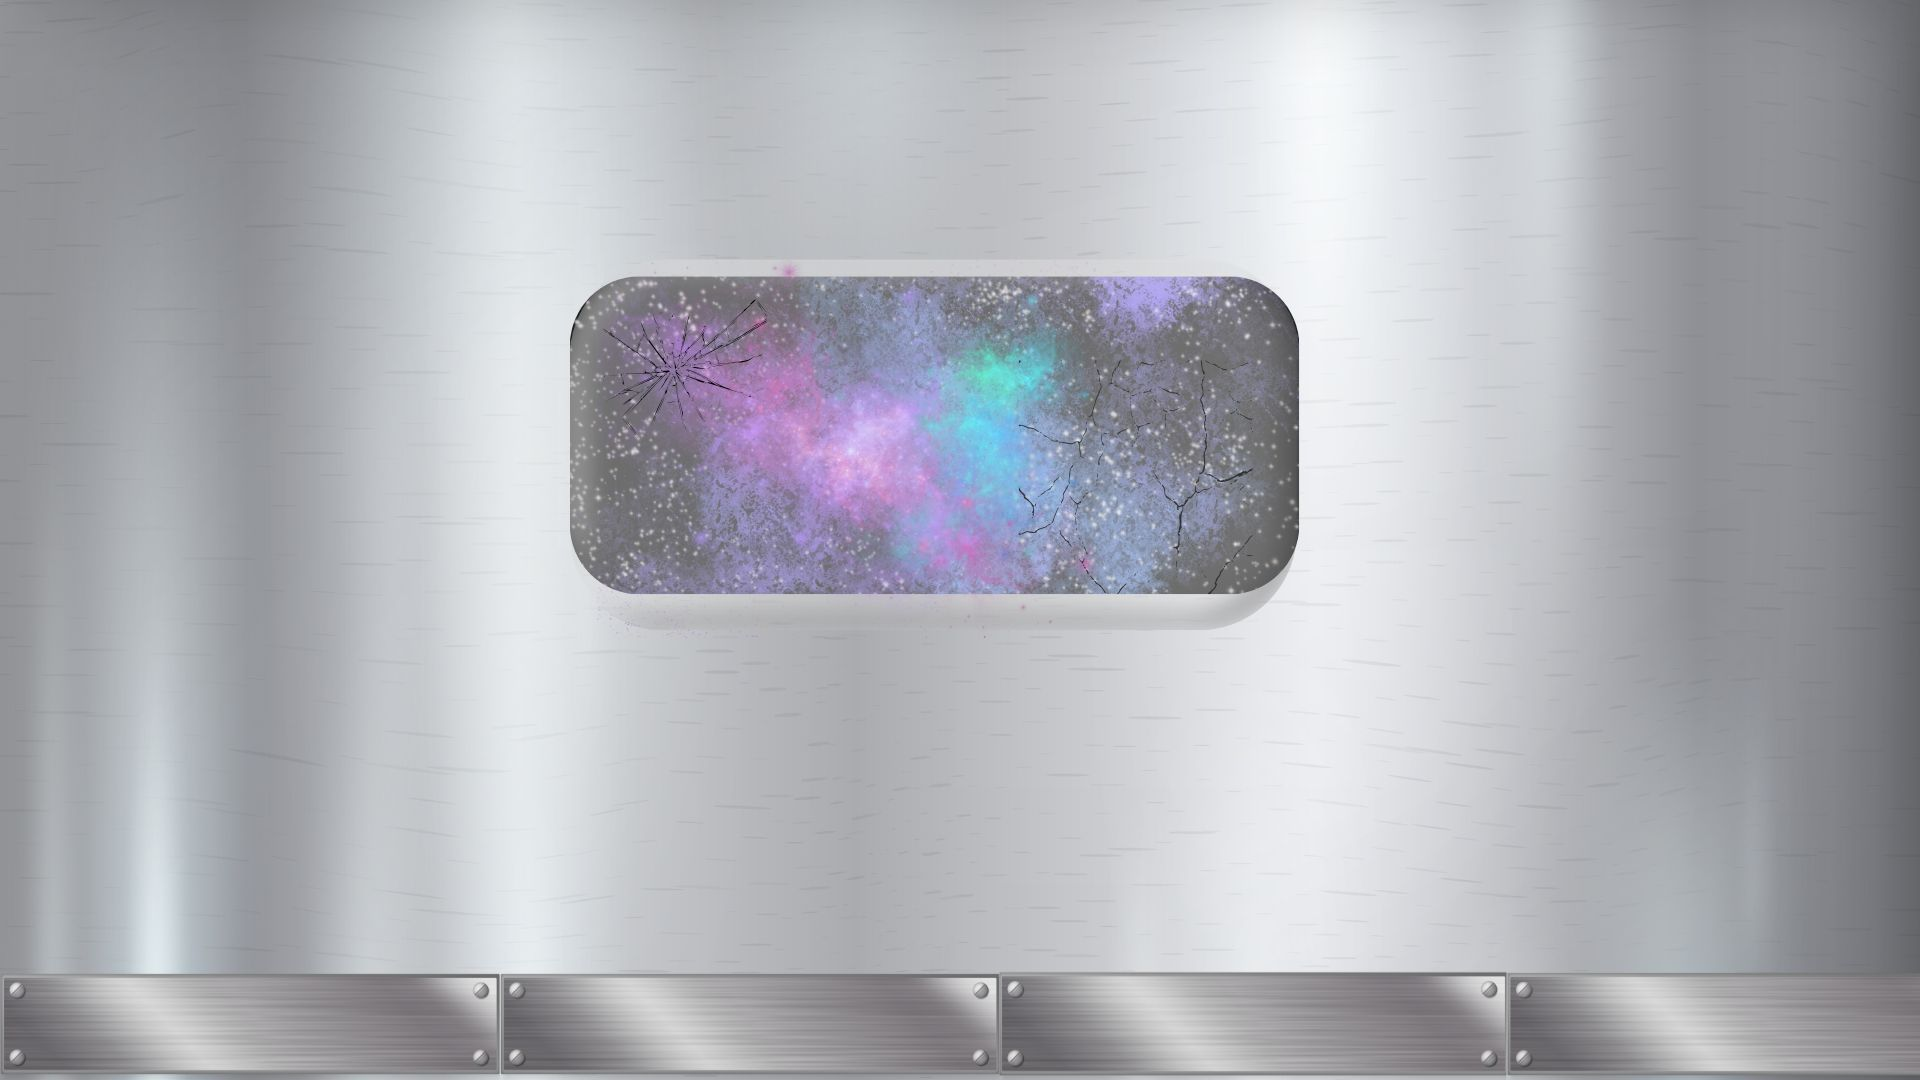
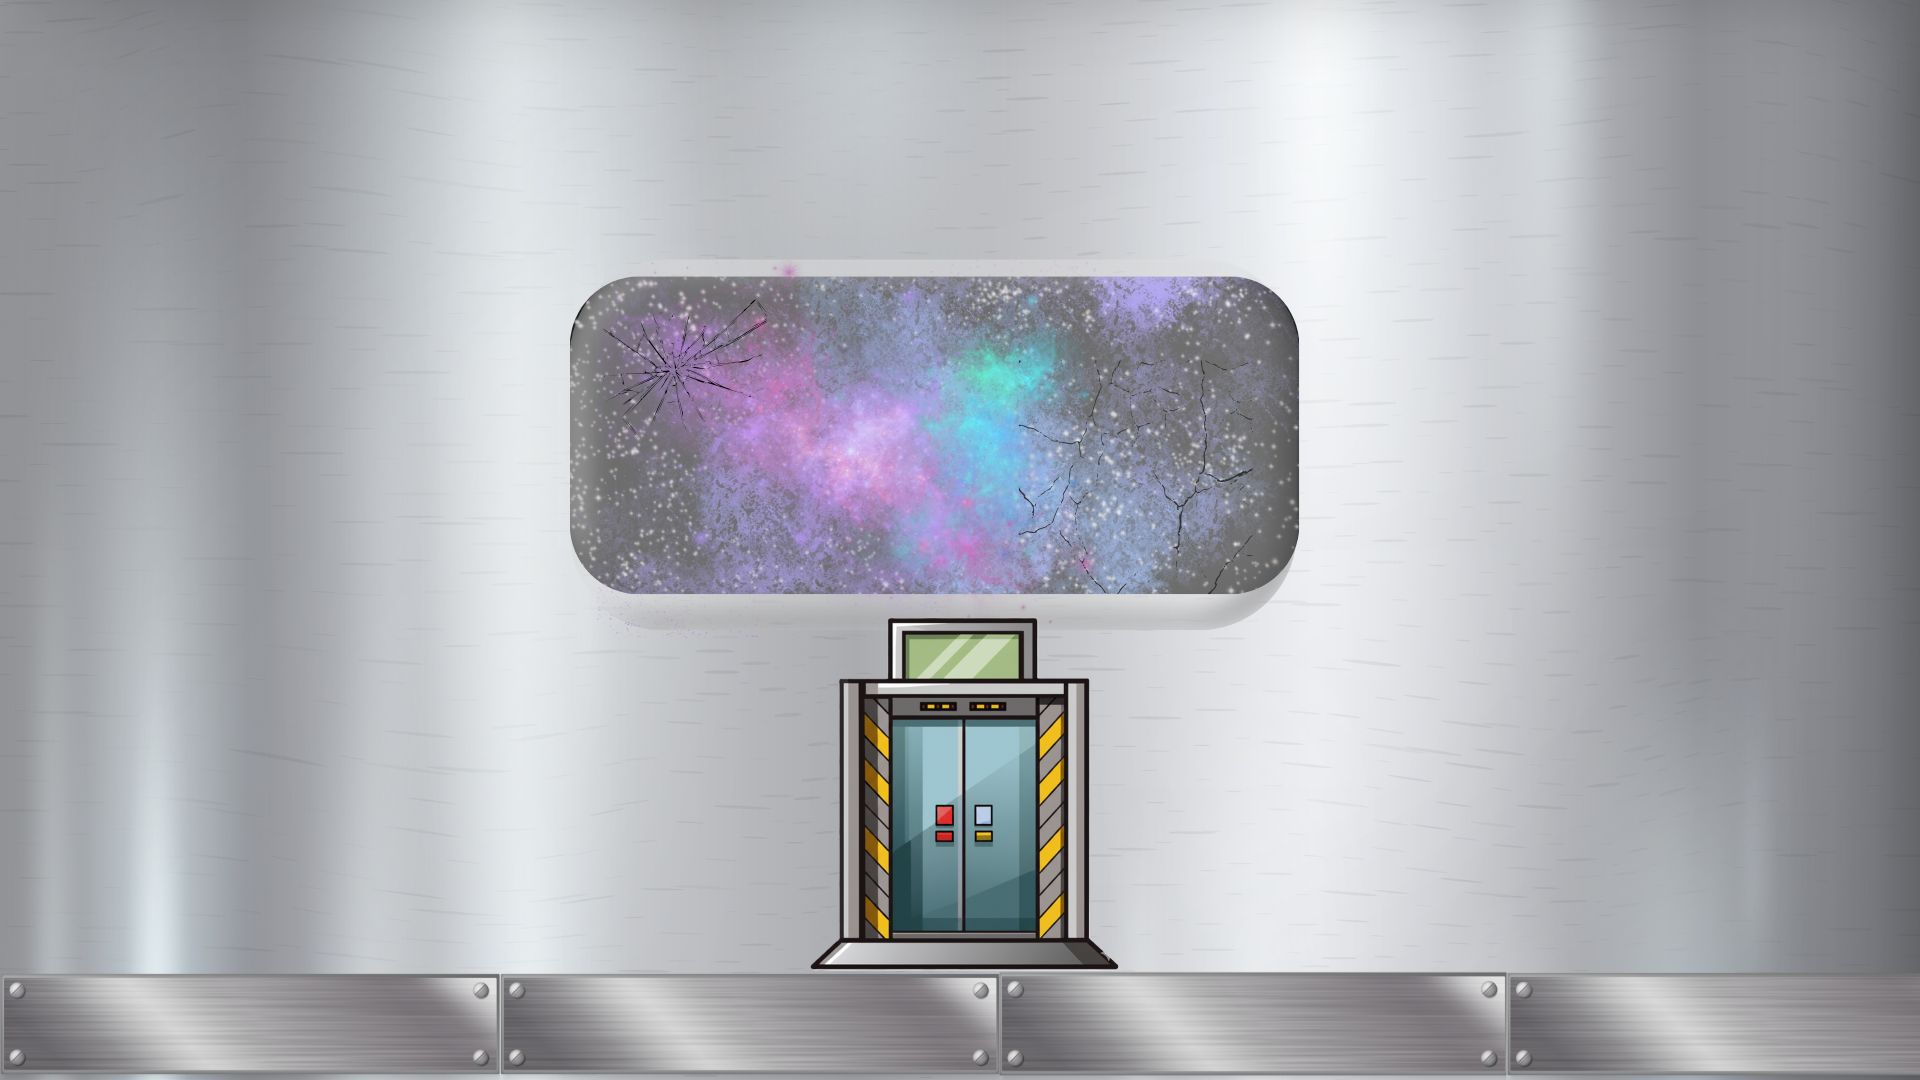
Add files via upload

Changed region(s): [[0.4062, 0.55, 0.5938, 0.9167]]

diff --git a/ModeloDesenolvimentoJogos-main/sketch.js b/ModeloDesenolvimentoJogos-main/sketch.js
@@ -2,7 +2,9 @@ var PLAY = 1;
 var END = 0;
 var gameState = PLAY;
 
-var background1
+var background1, background2
+var background3, background4
+
 var ground
 
 var astronaut, astronautImgR, astronautImgL
@@ -10,10 +12,18 @@ var astronautAttackR,  astronautAttackL
 
 var enemy1, enemy2, enemy3, enemy1Img, enemy2Img, enemy3Img
 
-var platform, platformImg
+var platform1, plataform2, platformImg
 
 var AM = 350
 
+var vida = 5
+var vidaMax = 5
+var invencivel = false
+var tempoInvensivel = 30
+var invTimer = 0
+
+var inimigosMortos = 0
+var fase = 1
 
 function preload(){
   /*trex_running = loadAnimation("trex1.png","trex3.png","trex4.png");
@@ -32,6 +42,7 @@ function preload(){
 
 
   background1 = loadImage("Imagens/1.jpg")
+  background2 = loadImage("Imagens/3.jpg")
   
   astronautImgL = loadImage("Imagens/AstronautaF.png")
   astronautImgR = loadImage("Imagens/AstronautaF2.png")
@@ -44,11 +55,14 @@ function preload(){
   enemy2Img = loadAnimation("Imagens/Terrestre1.png","Imagens/Terrestre2.png","Imagens/Terrestre3.png")
   enemy3Img = loadAnimation("Imagens/Voador1.png","Imagens/Voador2.png")
 
+  platformImg = loadImage("Imagens/Plataforma1.png")
+
   
 }
 
 function setup() {
-  createCanvas(1000, 600);
+ //               1000     ,     600 
+  createCanvas(windowWidth, windowHeight);
   
   /*trex = createSprite(50,180,20,50);
   trex.addAnimation("running", trex_running);
@@ -60,30 +74,45 @@ function setup() {
   ground.x = ground.width /2;*/
   
   edges = createEdgeSprites()
-  ground = createSprite(500,550,1000,20);
+  ground = createSprite(width/2,height -50 *2,width,20);
   ground.visible = true;
 
-  astronaut = new Astronauta(50,450)
+  platform1 = createSprite(width / 2 - 400, height - 250, 250, 25);
+  platform2 = createSprite(width / 2 + 300, height - 350, 250, 25);
+
+  platform1.addImage("plataforma", platformImg);
+  platform2.addImage("plataforma2", platformImg);
+
+  platform1.scale = 0.35
+  platform2.scale = 0.35
+
+  astronaut = new Astronauta(50,height - 150)
 
   astronaut.sprite.setCollider("rectangle",50,0,250,725)
   astronaut.sprite.debug = true
 
-  enemy1 = new Inimigos(950,10,enemy1Img,0.2)
+  enemy1 = new Inimigos(width - 50,10,enemy1Img,0.2)
 
   enemy1.sprite.setCollider("circle",0,30,150)
   enemy1.sprite.debug = true
 
 
-  enemy2 = new Inimigos(950,449,enemy2Img,0.25)
+  enemy2 = new Inimigos(width - 50,height - 200 ,enemy2Img,0.25)
 
   enemy2.sprite.setCollider("rectangle",-100,0,450,250)
   enemy2.sprite.debug = true
 
 
-  enemy3 = new Inimigos(50,449,enemy3Img,0.3)
+  enemy3 = new Inimigos(50,height - 149,enemy3Img,0.3)
 
   enemy3.sprite.setCollider("circle",0,0,200)
   enemy3.sprite.debug = true
+
+  platform1.setCollider("rectangle",0,0,950,400)
+  platform1.debug = true
+
+  platform2.setCollider("rectangle",0,0,950,400)
+  platform2.debug = true
 
 
 
@@ -120,74 +149,111 @@ function draw() {
  if(astronaut.attacking){
   if(astronaut.sprite.overlap(enemy1.sprite)){
     enemy1.sprite.remove()
+    inimigosMortos ++
   }
   if(astronaut.sprite.overlap(enemy2.sprite)){
     enemy2.sprite.remove()
+    inimigosMortos ++
   }
   if(astronaut.sprite.overlap(enemy3.sprite)){
     enemy3.sprite.remove()
+    inimigosMortos ++
   }
  }
-  
+  if(!invencivel){
+    if(astronaut.sprite.overlap(enemy1.sprite)) perderVida()
+    if(astronaut.sprite.overlap(enemy2.sprite)) perderVida()
+    if(astronaut.sprite.overlap(enemy3.sprite)) perderVida()
+  }
 
-
-
-
-
-
-
-
-
-  //exibindo pontuacãO
-  /*text("Score: "+ score, 500,50);
-  
-  
-  
-  if(gameState === PLAY){
-    //mover o solo
-    ground.velocityX = -4;
-    //pontuação
-    score = score + Math.round(frameCount/60);
-    
-    if (ground.x < 0){
-      ground.x = ground.width/2;
+  if(invencivel){
+    invTimer --
+    if(frameCount % 5 === 0){
+      astronaut.sprite.visible = !astronaut.sprite.visible
     }
-    
-    //pular quando a tecla de espaço for pressionada
-    if(keyDown("space")&& trex.y >= 100) {
-        trex.velocityY = -13;
-    }
-    
-    //adicione gravidade
-    trex.velocityY = trex.velocityY + 0.8
-  
-    //gere as nuvens
-    spawnClouds();
-  
-    //gere obstáculos no solo
-    spawnObstacles();
-    
-    if(obstaclesGroup.isTouching(trex)){
-        gameState = END;
+
+    if(invTimer <= 0){
+      invencivel = false
+      astronaut.sprite.visible = true
+      astronaut.sprite.tint = color(255, 255, 255)
     }
   }
-   else if (gameState === END) {
-      ground.velocityX = 0;
-     
-     obstaclesGroup.setVelocityXEach(0);
-     cloudsGroup.setVelocityXEach(0);
-   }
-  
- 
-  //impedir que o trex caia
-  trex.collide(invisibleGround);
-  
-  
-  */
+
+  if(vida <= 0){
+    astronaut.sprite.remove()
+    fill("red");
+    textSize(50);
+    text("GAME OVER =(", width/2 - 100, height/2);
+  }
+
+
   astronaut.sprite.collide(ground)
   astronaut.sprite.collide(edges)
+
+  astronaut.sprite.collide(platform1)
+  astronaut.sprite.collide(platform2)
+
+
+  push();
+  fill(255);
+  textSize(22);
+  text("Vida:", 20, 40);
+
+  for (let i = 0; i < vidaMax; i++) {
+    if (i < vida) fill(0, 255, 0)
+    else fill(150)
+
+    rect(100 + i * 30, 20, 25, 25);
+  }
+  pop()
+
+  if(fase === 1){
+    if(inimigosMortos >= 3){
+      background(background2)
+    }
+  }
+
   drawSprites();
 }
+
+function perderVida(){
+  vida -- //Diminuir Vida
+  invencivel = true 
+  invTimer = tempoInvensivel
+
+  //efeito visual
+  astronaut.sprite.tint = color(255,100,100) 
+}
+
+
+
+
+
+
+
+
+
+
+
+
+
+
+
+
+
+
+
+
+
+
+
+
+
+
+
+
+
+
 
 /*function spawnObstacles(){
  if (frameCount % 60 === 0){

diff --git a/ModeloDesenolvimentoJogos-main/Astronauta.js b/ModeloDesenolvimentoJogos-main/Astronauta.js
@@ -20,6 +20,8 @@ class Astronauta {
    }
    Movimento() {
       var noChão = this.sprite.collide(ground)
+      var naPlataforma1 = this.sprite.collide(platform1)
+      var naPlataforma2 = this.sprite.collide(platform2)
       if (!this.attacking) {
          if (keyDown("D")) {
             this.sprite.x += 8
@@ -35,6 +37,13 @@ class Astronauta {
       if (keyWentDown("Space") && noChão) {
          this.sprite.velocityY -= this.pulo
       }
+      if (keyWentDown("Space") && naPlataforma1) {
+         this.sprite.velocityY -= this.pulo
+      }
+        if (keyWentDown("Space") && naPlataforma2) {
+         this.sprite.velocityY -= this.pulo
+      }
+
 
       //false = pulo baixo true = pulo alto
       if (keyWentDown("G") && !this.attacking && !this.gravidade) {
